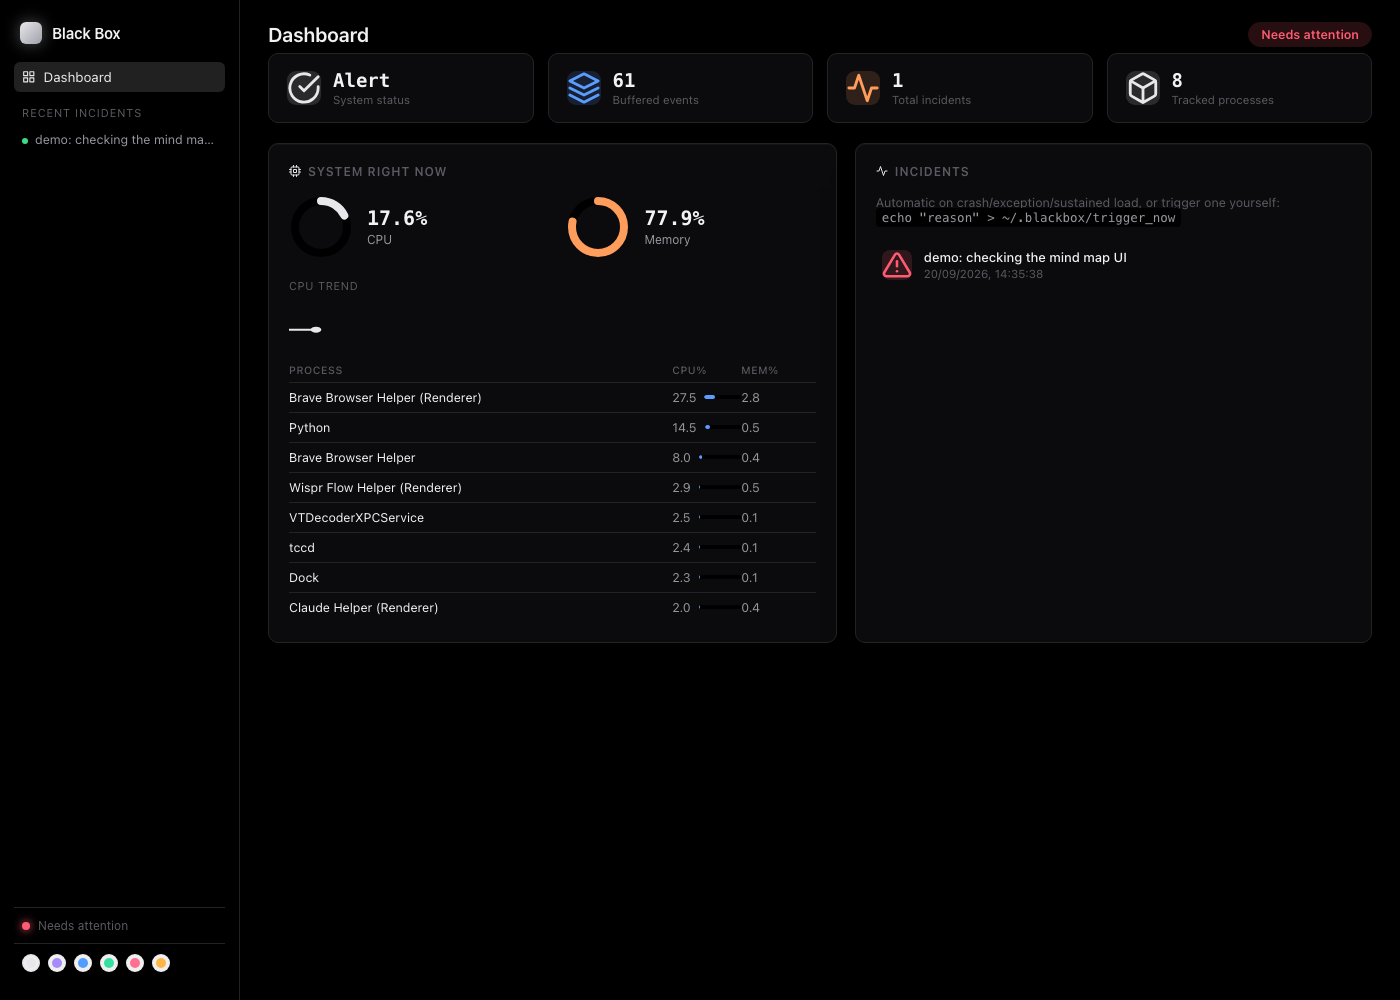
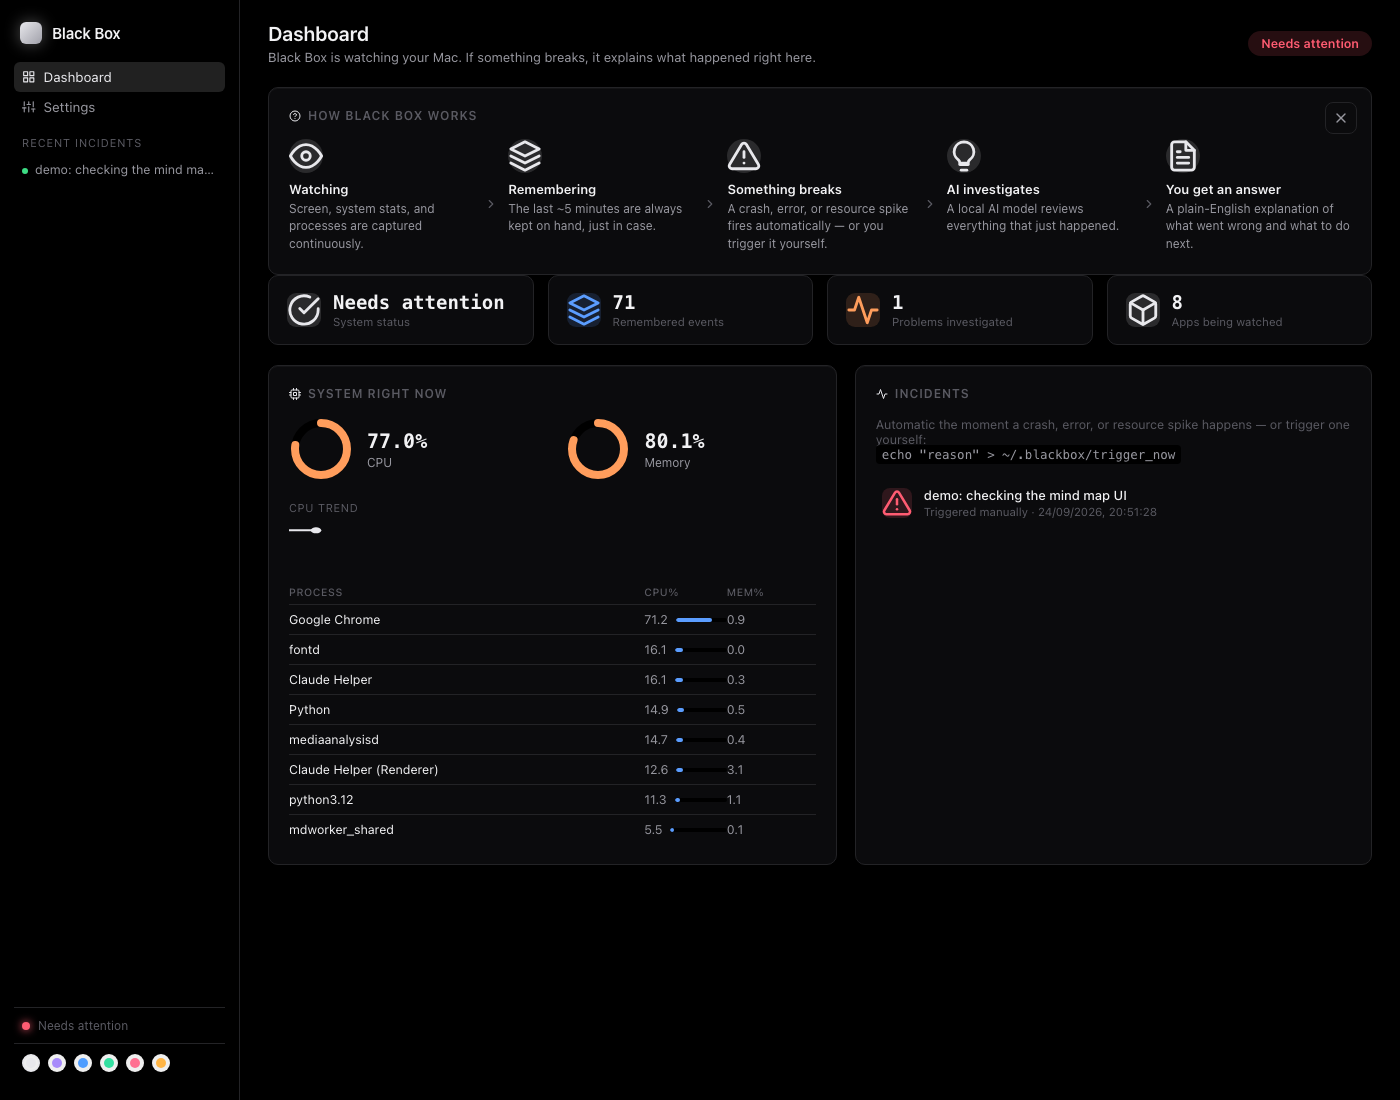
Document the native sysmon service and Settings page; refresh screenshots
README now covers: how to build/enable the native C++ metrics service
and what it does/doesn't cover, the new /settings page and why it's
scoped to just screenshots/terminal, and that the native sysmon tests
skip gracefully when unbuilt. Screenshots refreshed to show the new
Settings nav link and the settings page itself.

diff --git a/README.md b/README.md
@@ -37,6 +37,10 @@ full-screen.
 
 ![Incident mind map](docs/screenshots/incident-mindmap.png)
 
+**Settings** — toggle what gets captured, live, no restart:
+
+![Settings](docs/screenshots/settings.png)
+
 ## Architecture
 
 ```
@@ -55,6 +59,29 @@ Computer
 Every layer only knows about the layer below it — the capture collectors have
 no idea an incident system exists, the buffer has no idea what a crash is, and
 the AI agent never sees raw events, only a pre-correlated evidence package.
+
+### Native system-metrics service (optional, C++)
+
+`native/` is a small, dependency-free C++ CLI tool (`sysmon`) that samples
+CPU, memory, swap, and network throughput directly via macOS mach host
+statistics — no psutil, no shelling out. It's a genuine Unix-pipe tool: one
+JSON line per interval to stdout, nothing else. `NativeSystemMetricsCollector`
+(`app/capture/system.py`) spawns it and reads its output the same way it
+would pipe any other CLI tool.
+
+It's off by default — `capture.system.use_native_binary: false` in
+`config.yaml` uses the existing psutil collector. To try it:
+
+```bash
+cd native
+cmake -S . -B build -DCMAKE_BUILD_TYPE=Release
+cmake --build build
+```
+
+then set `use_native_binary: true`. See `native/README.md` for what it does
+and doesn't cover (disk I/O and GPU stay on the psutil path). If the binary
+isn't built, the app logs a warning and falls back to psutil automatically
+rather than silently collecting nothing.
 
 ## Requirements
 
@@ -91,6 +118,11 @@ A local web dashboard starts automatically at
   count, tracked processes), CPU/memory as radial gauges plus a live CPU
   sparkline, a per-process table with inline usage bars, an OK /
   needs-attention banner, and the incident list.
+- **/settings** — toggle screenshot capture and terminal-command capture on
+  or off live, no restart needed. Deliberately limited to those two: they're
+  the privacy-sensitive, opt-in collectors. Core monitoring (system metrics,
+  processes, OS events) stays a `config.yaml`-only decision, since turning it
+  off would break the tool's actual purpose.
 - A theme swatch picker sits at the bottom of the sidebar on every page —
   monochrome by default, five accent colors to choose from, saved per-browser.
 - **/incidents/&lt;id&gt;** — the mind map: the trigger (red) and the AI's
@@ -153,4 +185,6 @@ python -m pytest
 ```
 
 Every module is independently testable; the test suite mocks the Ollama HTTP
-calls so it never depends on a running daemon.
+calls so it never depends on a running daemon. Tests for the native sysmon
+binary (`tests/test_native_sysmon.py`) skip themselves — rather than
+failing — when `native/build/sysmon` hasn't been built.
